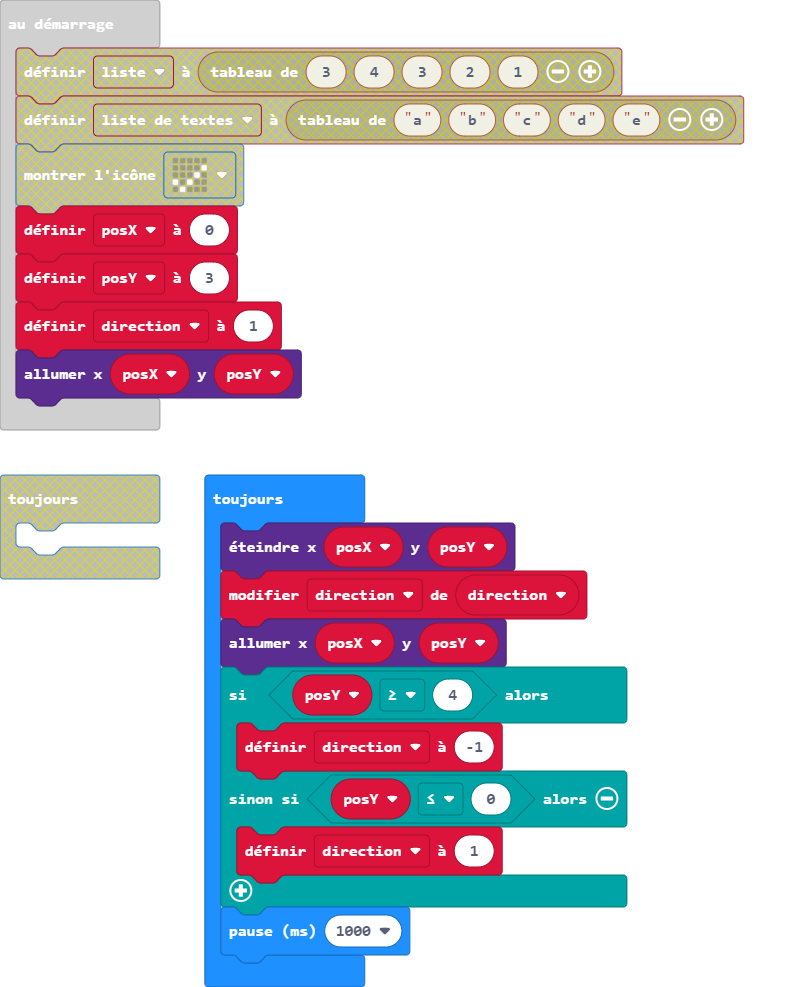
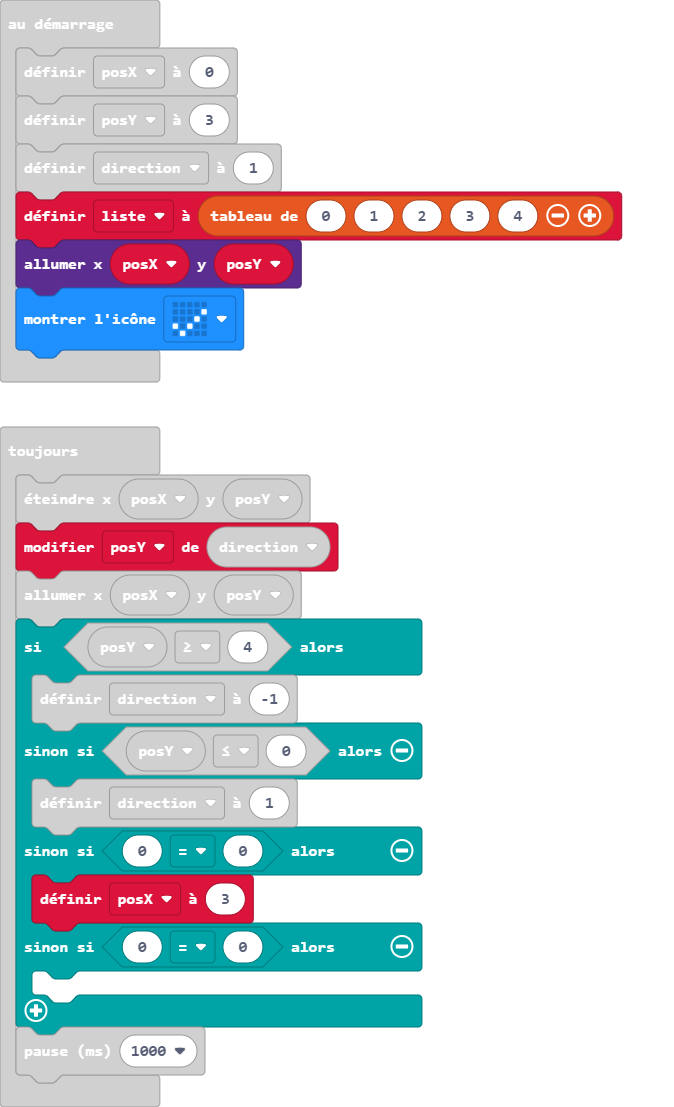
Mise à jour main.blocks, main.ts

diff --git a/main.ts b/main.ts
@@ -1,15 +1,21 @@
 let posX = 0
 let posY = 3
 let direction = 1
+let liste = [0, 1, 2, 3, 4]
 led.plot(posX, posY)
+basic.showIcon(IconNames.Yes)
 basic.forever(function () {
     led.unplot(posX, posY)
-    direction += direction
+    posY += direction
     led.plot(posX, posY)
     if (posY >= 4) {
         direction = -1
     } else if (posY <= 0) {
         direction = 1
+    } else if (0 == 0) {
+        posX = 3
+    } else if (0 == 0) {
+    	
     }
     basic.pause(1000)
 })
